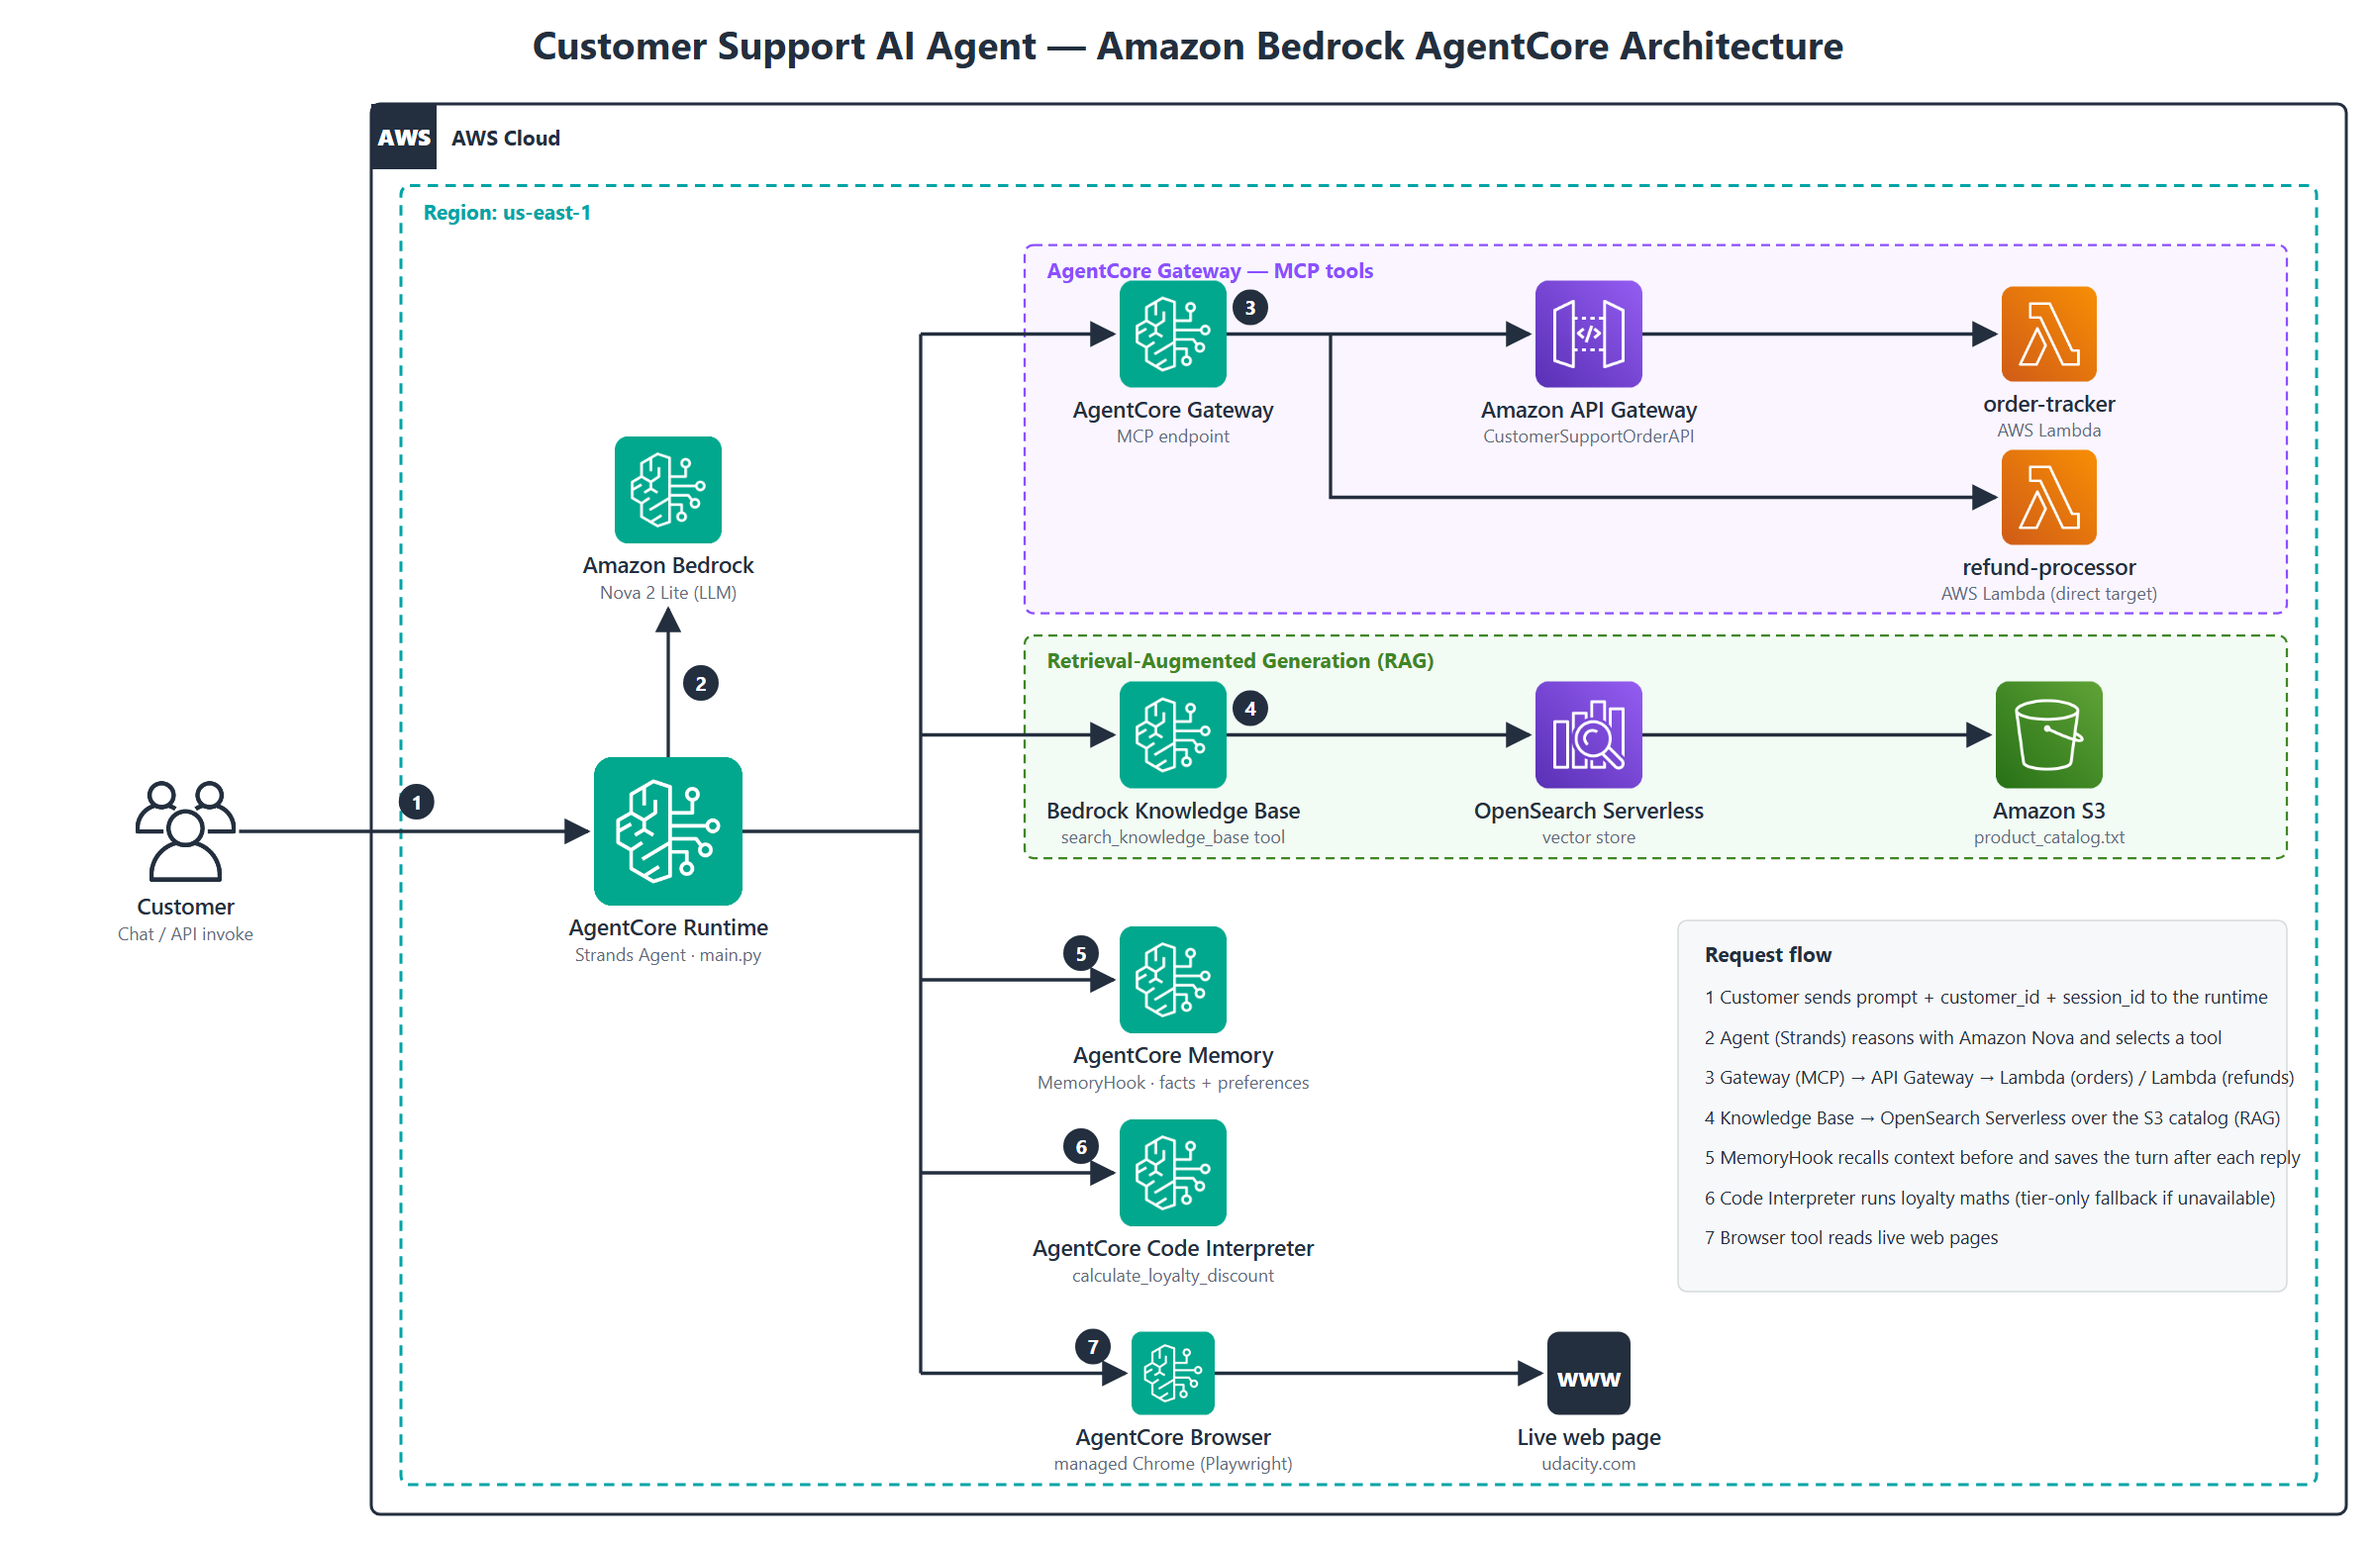
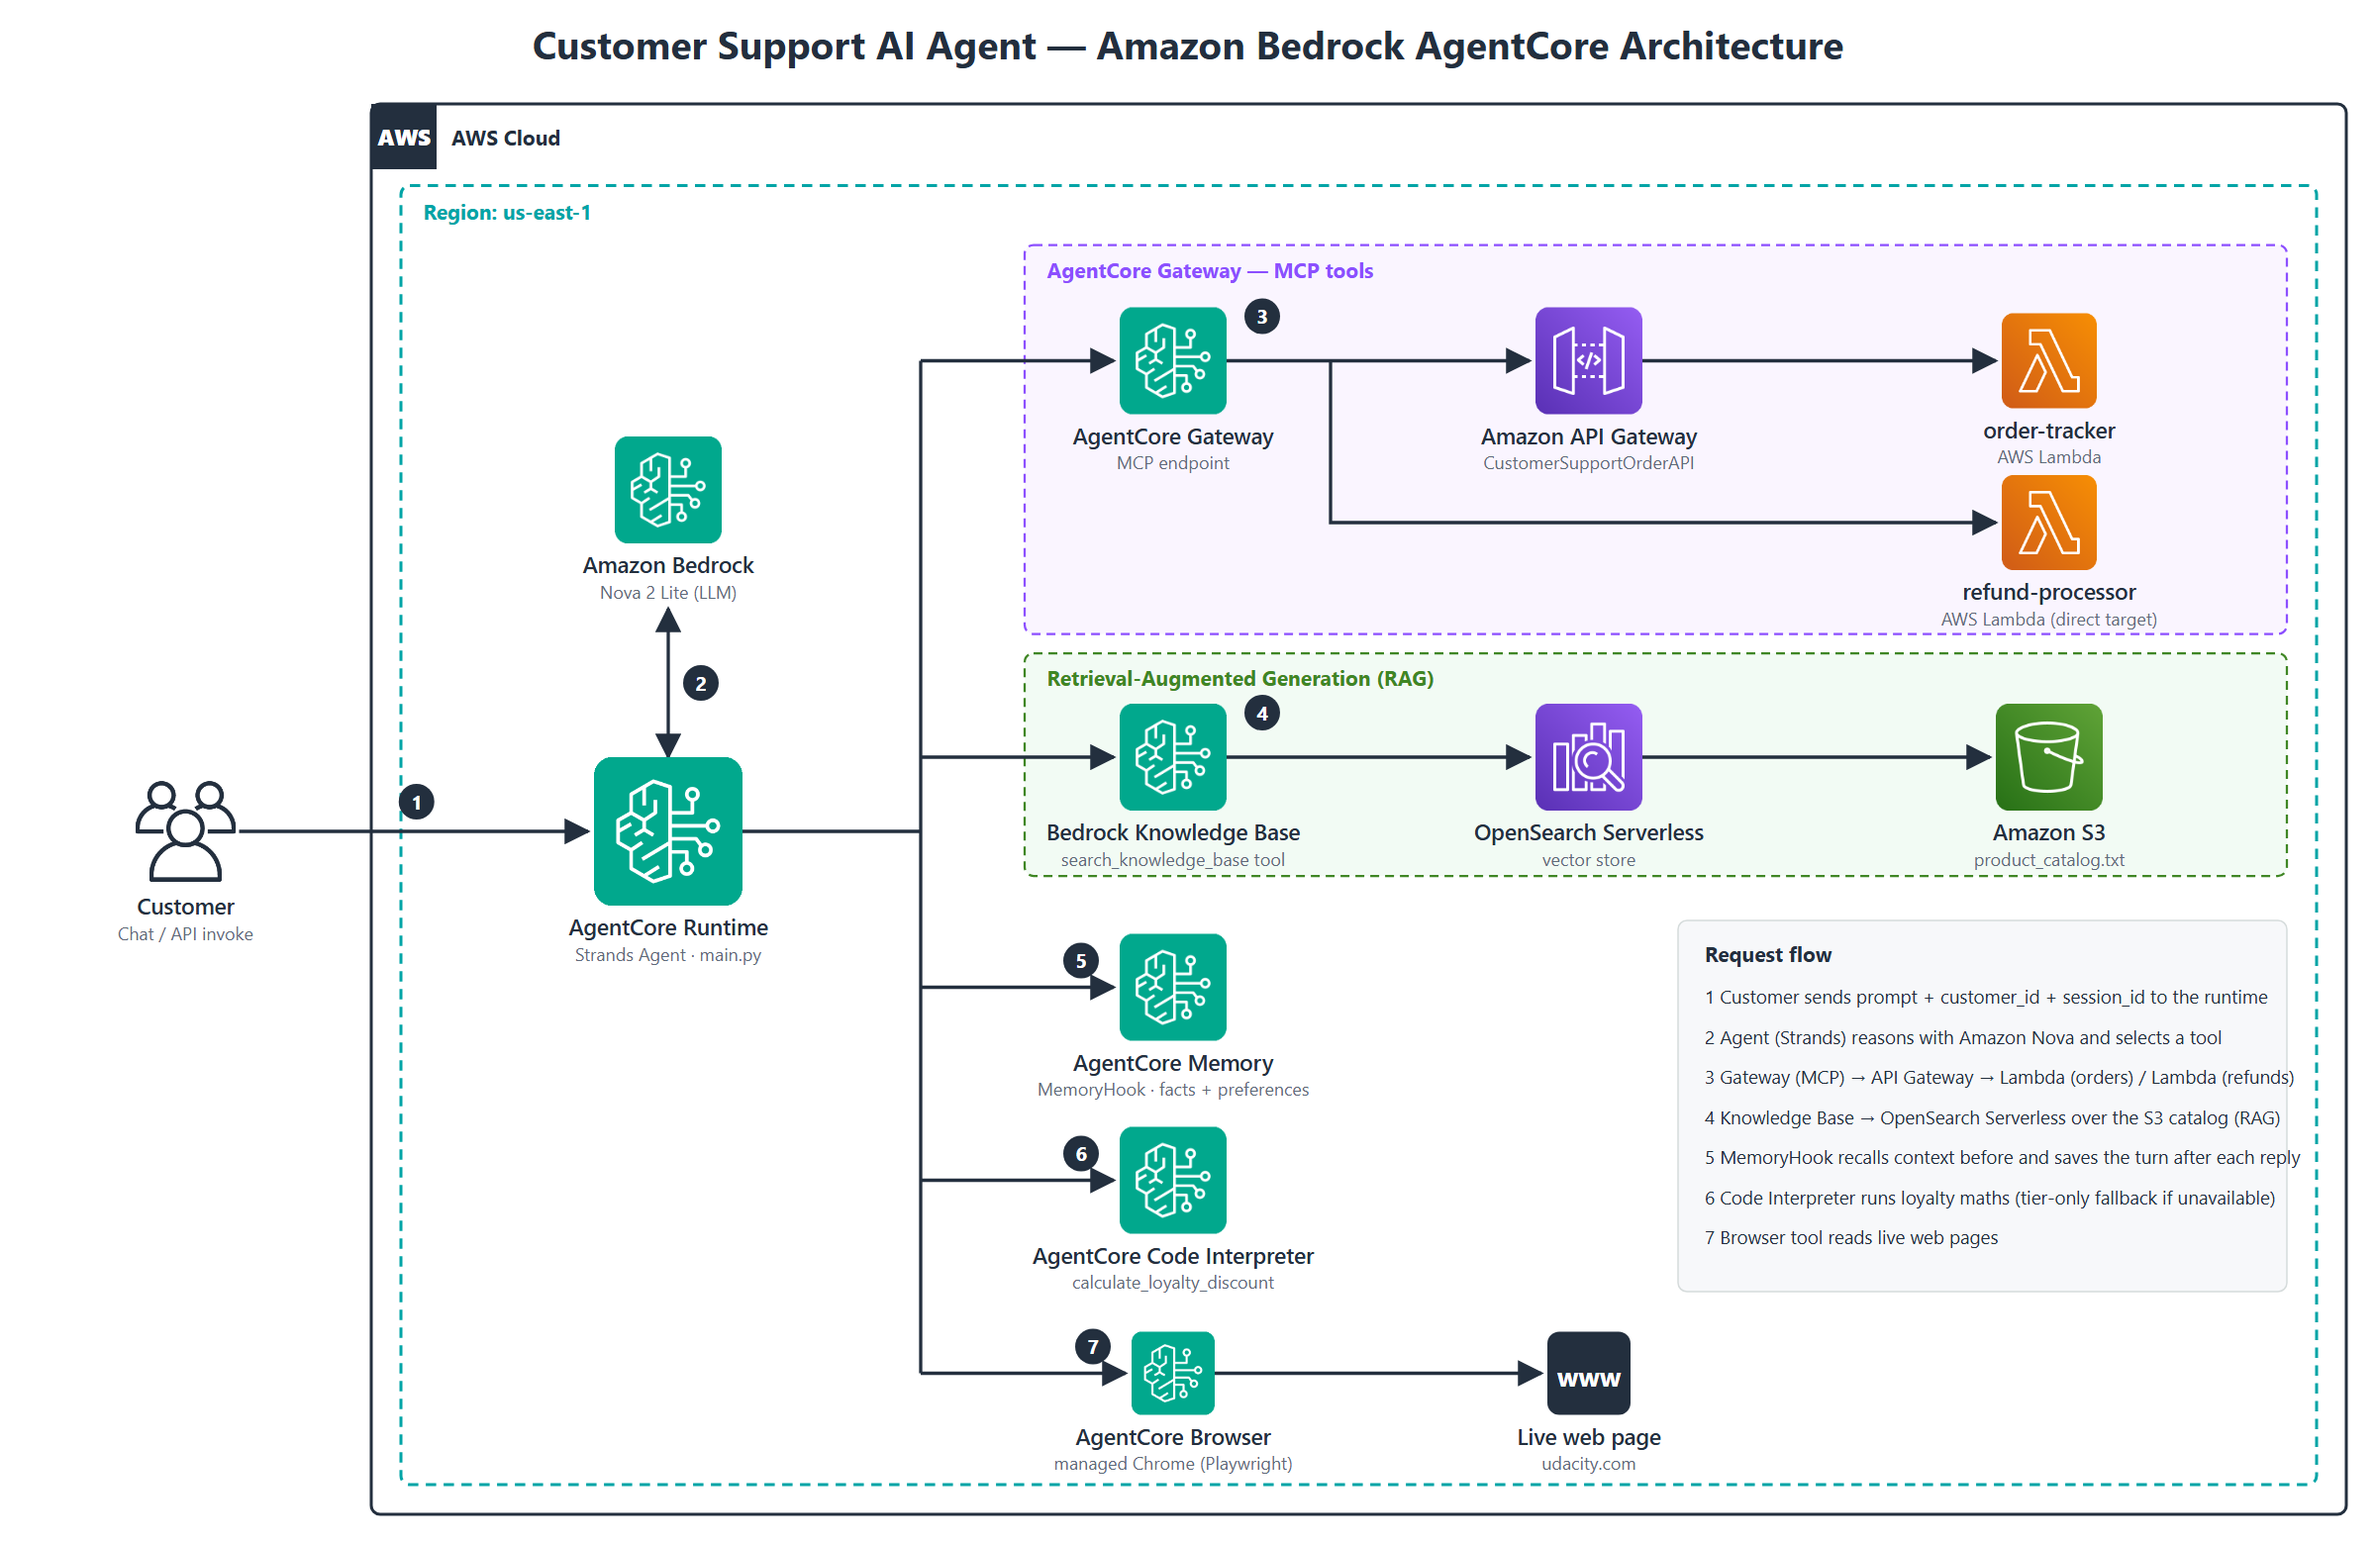
polish architecture diagram spacing and two-way model arrow

Changed region(s): [[0.375, 0.1538, 0.9688, 0.8308]]

diff --git a/docs/architecture_diagram.html b/docs/architecture_diagram.html
@@ -19,7 +19,7 @@
 <body>
 <svg id="d" width="1600" height="1040" viewBox="0 0 1600 1040" xmlns="http://www.w3.org/2000/svg">
   <defs>
-    <marker id="arr" viewBox="0 0 10 10" refX="9" refY="5" markerWidth="8" markerHeight="8" orient="auto"><path d="M0,0 L10,5 L0,10 z" fill="#232f3e"/></marker>
+    <marker id="arr" viewBox="0 0 10 10" refX="9" refY="5" markerWidth="8" markerHeight="8" orient="auto-start-reverse"><path d="M0,0 L10,5 L0,10 z" fill="#232f3e"/></marker>
   </defs>
   <rect width="1600" height="1040" fill="#fff"/>
   <text x="800" y="40" text-anchor="middle" font-size="26" font-weight="700" fill="#232f3e">Customer Support AI Agent — Amazon Bedrock AgentCore Architecture</text>
@@ -31,10 +31,10 @@
   <rect x="270" y="125" width="1290" height="875" rx="6" fill="none" stroke="#00a4a6" stroke-width="2" stroke-dasharray="7 5"/>
   <text x="285" y="148" class="grp" fill="#00a4a6">Region: us-east-1</text>
 
-  <rect x="690" y="165" width="850" height="248" rx="6" fill="#faf5ff" stroke="#8c4fff" stroke-width="1.5" stroke-dasharray="6 4"/>
+  <rect x="690" y="165" width="850" height="262" rx="6" fill="#faf5ff" stroke="#8c4fff" stroke-width="1.5" stroke-dasharray="6 4"/>
   <text x="705" y="187" class="grp" fill="#8c4fff">AgentCore Gateway — MCP tools</text>
-  <rect x="690" y="428" width="850" height="150" rx="6" fill="#f2fbf4" stroke="#3f8624" stroke-width="1.5" stroke-dasharray="6 4"/>
-  <text x="705" y="450" class="grp" fill="#3f8624">Retrieval-Augmented Generation (RAG)</text>
+  <rect x="690" y="440" width="850" height="150" rx="6" fill="#f2fbf4" stroke="#3f8624" stroke-width="1.5" stroke-dasharray="6 4"/>
+  <text x="705" y="462" class="grp" fill="#3f8624">Retrieval-Augmented Generation (RAG)</text>
 
   <g id="edges"></g>
   <g id="nodes"></g>
@@ -62,17 +62,17 @@ const user=node(125,midY,COL.user,"img:user","Customer","Chat / API invoke");
 const rt=node(450,midY,COL.ml,"img:bedrock","AgentCore Runtime","Strands Agent · main.py",100);
 const nova=node(450,330,COL.ml,"img:bedrock","Amazon Bedrock","Nova 2 Lite (LLM)");
 
-const gw=node(790,225,COL.app,"img:bedrock","AgentCore Gateway","MCP endpoint");
-const apig=node(1070,225,COL.app,"img:apigw","Amazon API Gateway","CustomerSupportOrderAPI");
-const l1=node(1380,225,COL.compute,"img:lambda","order-tracker","AWS Lambda",64);
-const l2=node(1380,335,COL.compute,"img:lambda","refund-processor","AWS Lambda (direct target)",64);
+const gw=node(790,243,COL.app,"img:bedrock","AgentCore Gateway","MCP endpoint");
+const apig=node(1070,243,COL.app,"img:apigw","Amazon API Gateway","CustomerSupportOrderAPI");
+const l1=node(1380,243,COL.compute,"img:lambda","order-tracker","AWS Lambda",64);
+const l2=node(1380,352,COL.compute,"img:lambda","refund-processor","AWS Lambda (direct target)",64);
 
-const kb=node(790,495,COL.ml,"img:bedrock","Bedrock Knowledge Base","search_knowledge_base tool");
-const os=node(1070,495,COL.db,"img:opensearch","OpenSearch Serverless","vector store");
-const s3=node(1380,495,COL.storage,"img:s3","Amazon S3","product_catalog.txt");
+const kb=node(790,510,COL.ml,"img:bedrock","Bedrock Knowledge Base","search_knowledge_base tool");
+const os=node(1070,510,COL.db,"img:opensearch","OpenSearch Serverless","vector store");
+const s3=node(1380,510,COL.storage,"img:s3","Amazon S3","product_catalog.txt");
 
-const mem=node(790,660,COL.db,"img:bedrock","AgentCore Memory","MemoryHook · facts + preferences");
-const ci=node(790,790,COL.compute,"img:bedrock","AgentCore Code Interpreter","calculate_loyalty_discount");
+const mem=node(790,665,COL.db,"img:bedrock","AgentCore Memory","MemoryHook · facts + preferences");
+const ci=node(790,795,COL.compute,"img:bedrock","AgentCore Code Interpreter","calculate_loyalty_discount");
 const br=node(790,925,COL.net,"img:bedrock","AgentCore Browser","managed Chrome (Playwright)",56);
 const web=node(1070,925,COL.user,"www","Live web page","udacity.com",56);
 
@@ -80,7 +80,7 @@ const web=node(1070,925,COL.user,"www","Live web page","udacity.com",56);
 path(`M${user.r},${midY} L${rt.l-4},${midY}`);
 badge((user.r+rt.l)/2,midY-20,1);
 // runtime -> nova
-path(`M${rt.cx},${rt.t} L${rt.cx},${nova.b+44}`);
+path(`M${rt.cx},${rt.t} L${rt.cx},${nova.b+44}`); edges.lastChild.setAttribute("marker-start","url(#arr)");
 badge(rt.cx+22,(rt.t+nova.b+44)/2,2);
 // bus
 const busX=620;
@@ -91,11 +91,11 @@ path(`M${busX},${gw.cy} L${busX},${br.cy}`,"bus");
 path(`M${gw.r},${gw.cy} L${apig.l-4},${apig.cy}`);
 path(`M${apig.r},${apig.cy} L${l1.l-4},${l1.cy}`);
 path(`M${gw.r+70},${gw.cy} L${gw.r+70},${l2.cy} L${l2.l-4},${l2.cy}`);
-badge(gw.r+16,gw.cy-18,3);
+badge(gw.r+24,gw.cy-30,3);
 // RAG
 path(`M${kb.r},${kb.cy} L${os.l-4},${os.cy}`);
 path(`M${os.r},${os.cy} L${s3.l-4},${s3.cy}`);
-badge(kb.r+16,kb.cy-18,4);
+badge(kb.r+24,kb.cy-30,4);
 badge(mem.l-26,mem.cy-18,5);
 badge(ci.l-26,ci.cy-18,6);
 path(`M${br.r},${br.cy} L${web.l-4},${web.cy}`);
